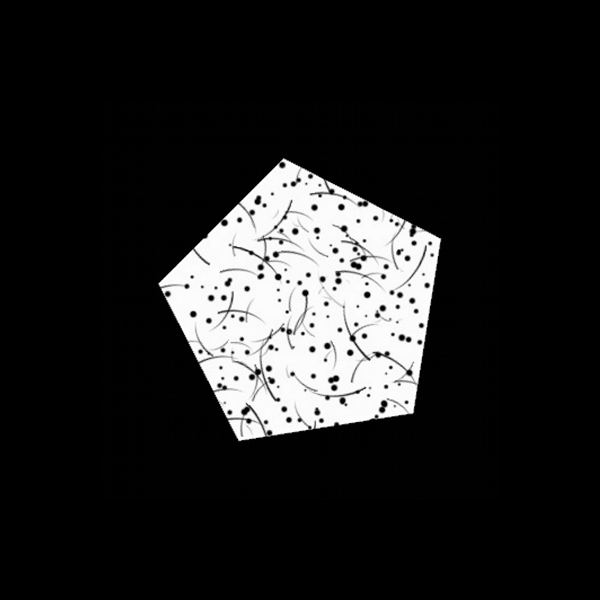
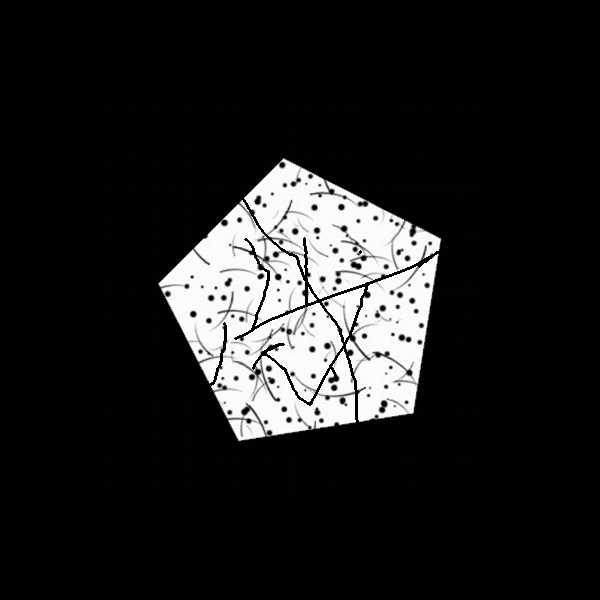
added apertures

diff --git a/src/core/aperture.cpp b/src/core/aperture.cpp
@@ -36,13 +36,13 @@ void aperture::load_aperture(const transmission_function& tf,
             path = "fingerprints.png";
             break;
         case GRAZED:
-            path = "grazed_cut.png";
+            path = "grazed_lens.png";
             break;
         case OCTAGON:
             path = "octagon.png";
             break;
         case SIGGRAPH:
-            path = "siggraph_custom.png";
+            path = "siggraph_noise.png";
             break;
         default:
             LOG(ERROR) << "Bad aperture passed!";
